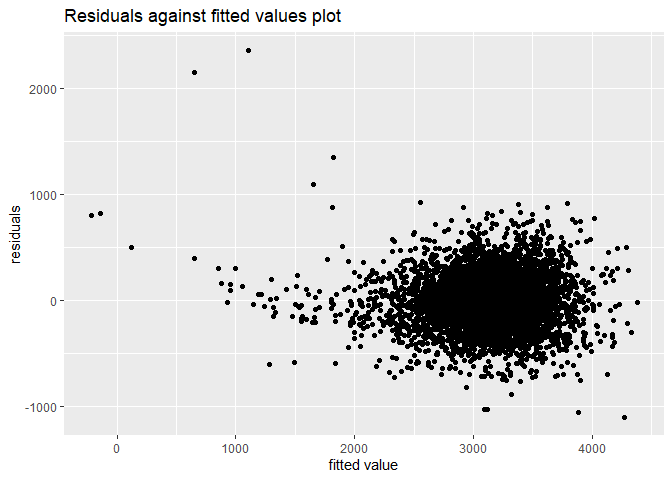
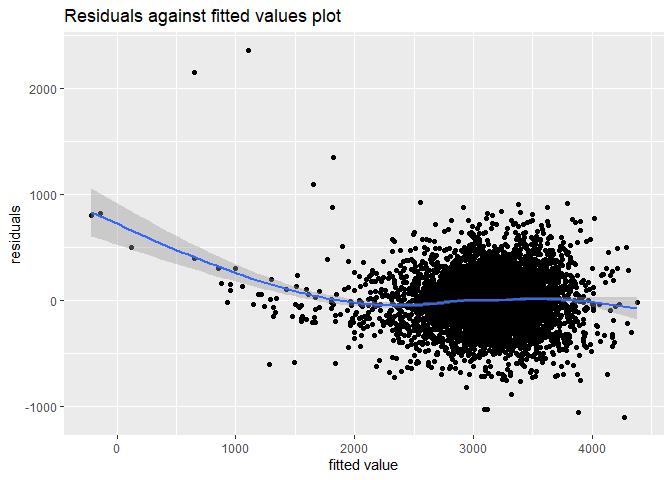
add smooth curve to graph

Changed region(s): [[0.125, 0.375, 0.75, 0.6562], [0.75, 0.5938, 0.9688, 0.6562]]

diff --git a/p8105_hw6_sx2337.md b/p8105_hw6_sx2337.md
@@ -80,7 +80,7 @@ r_val_info %>%
     ## # A tibble: 1 × 5
     ##   mean_Val median_val      se `2.5-quantile` `97.5-quantile`
     ##      <dbl>      <dbl>   <dbl>          <dbl>           <dbl>
-    ## 1    0.911      0.912 0.00853          0.895           0.918
+    ## 1    0.911      0.912 0.00837          0.895           0.918
 
 R square is likely to be symmetrically distributed with mean 0.91 and
 median 0.91.
@@ -256,57 +256,8 @@ distinct_cities_df =
     `2.5 %` =exp(`2.5 %`),
     `97.5 %` = exp(`97.5 %`)
     )
-```
+  
 
-    ## Waiting for profiling to be done...
-    ## Waiting for profiling to be done...
-    ## Waiting for profiling to be done...
-    ## Waiting for profiling to be done...
-    ## Waiting for profiling to be done...
-    ## Waiting for profiling to be done...
-    ## Waiting for profiling to be done...
-    ## Waiting for profiling to be done...
-    ## Waiting for profiling to be done...
-    ## Waiting for profiling to be done...
-    ## Waiting for profiling to be done...
-    ## Waiting for profiling to be done...
-    ## Waiting for profiling to be done...
-    ## Waiting for profiling to be done...
-    ## Waiting for profiling to be done...
-    ## Waiting for profiling to be done...
-    ## Waiting for profiling to be done...
-    ## Waiting for profiling to be done...
-    ## Waiting for profiling to be done...
-    ## Waiting for profiling to be done...
-    ## Waiting for profiling to be done...
-    ## Waiting for profiling to be done...
-    ## Waiting for profiling to be done...
-    ## Waiting for profiling to be done...
-    ## Waiting for profiling to be done...
-    ## Waiting for profiling to be done...
-    ## Waiting for profiling to be done...
-    ## Waiting for profiling to be done...
-    ## Waiting for profiling to be done...
-    ## Waiting for profiling to be done...
-    ## Waiting for profiling to be done...
-    ## Waiting for profiling to be done...
-    ## Waiting for profiling to be done...
-    ## Waiting for profiling to be done...
-    ## Waiting for profiling to be done...
-    ## Waiting for profiling to be done...
-    ## Waiting for profiling to be done...
-    ## Waiting for profiling to be done...
-    ## Waiting for profiling to be done...
-    ## Waiting for profiling to be done...
-    ## Waiting for profiling to be done...
-    ## Waiting for profiling to be done...
-    ## Waiting for profiling to be done...
-    ## Waiting for profiling to be done...
-    ## Waiting for profiling to be done...
-    ## Waiting for profiling to be done...
-    ## Waiting for profiling to be done...
-
-``` r
 distinct_cities_df
 ```
 
@@ -406,7 +357,7 @@ birthweight_adpt
     ## #   mrace <fct>, parity <dbl>, pnumlbw <dbl>, pnumsga <dbl>, ppbmi <dbl>,
     ## #   ppwt <dbl>, smoken <dbl>, wtgain <dbl>
 
-First hypothesis that all factors are related to baby’s weight. For
+First assume that all factors are related to baby’s weight. For
 instance, a female baby may likely to have different weight than male
 baby due to different biological structure. Also other factors such as
 family income may also be related to baby’s weight because a affluent
@@ -460,13 +411,17 @@ Based on the model selected, I plot the residuals against fitted values:
 birthweight_adpt %>% 
   add_predictions(Stepwise_model) %>% 
   add_residuals(Stepwise_model) %>% 
-  ggplot(aes(x = pred, y = resid)) + geom_point() +
+  ggplot(aes(x = pred, y = resid)) + geom_point() + 
+  geom_smooth()+
   labs(title = "Residuals against fitted values plot", )+xlab("fitted value")+ylab("residuals")
 ```
 
+    ## `geom_smooth()` using method = 'gam' and formula = 'y ~ s(x, bs = "cs")'
+
 ![](p8105_hw6_sx2337_files/figure-gfm/unnamed-chunk-17-1.png)<!-- -->
 
-Although the plot may show some trends, the overall fitting is okay and
+The plot shows that residuals clustered in one place and it seems like
+the variance is different along the fitted values. On the other hand,
 the model has a relatively high r square hence the model has a
 relatively high explained variance.
 
@@ -506,7 +461,7 @@ cv_df %>%
     ## # A tibble: 1 × 3
     ##   rmse_my_model_mean rmse_main_effect_mean rmse_interactive_meam
     ##                <dbl>                 <dbl>                 <dbl>
-    ## 1               273.                  334.                  289.
+    ## 1               274.                  335.                  291.
 
 As indicated by the RMSE results, my model has the lowest rmse, with a
 decent adjusted r square value (which also considered the complexity of
